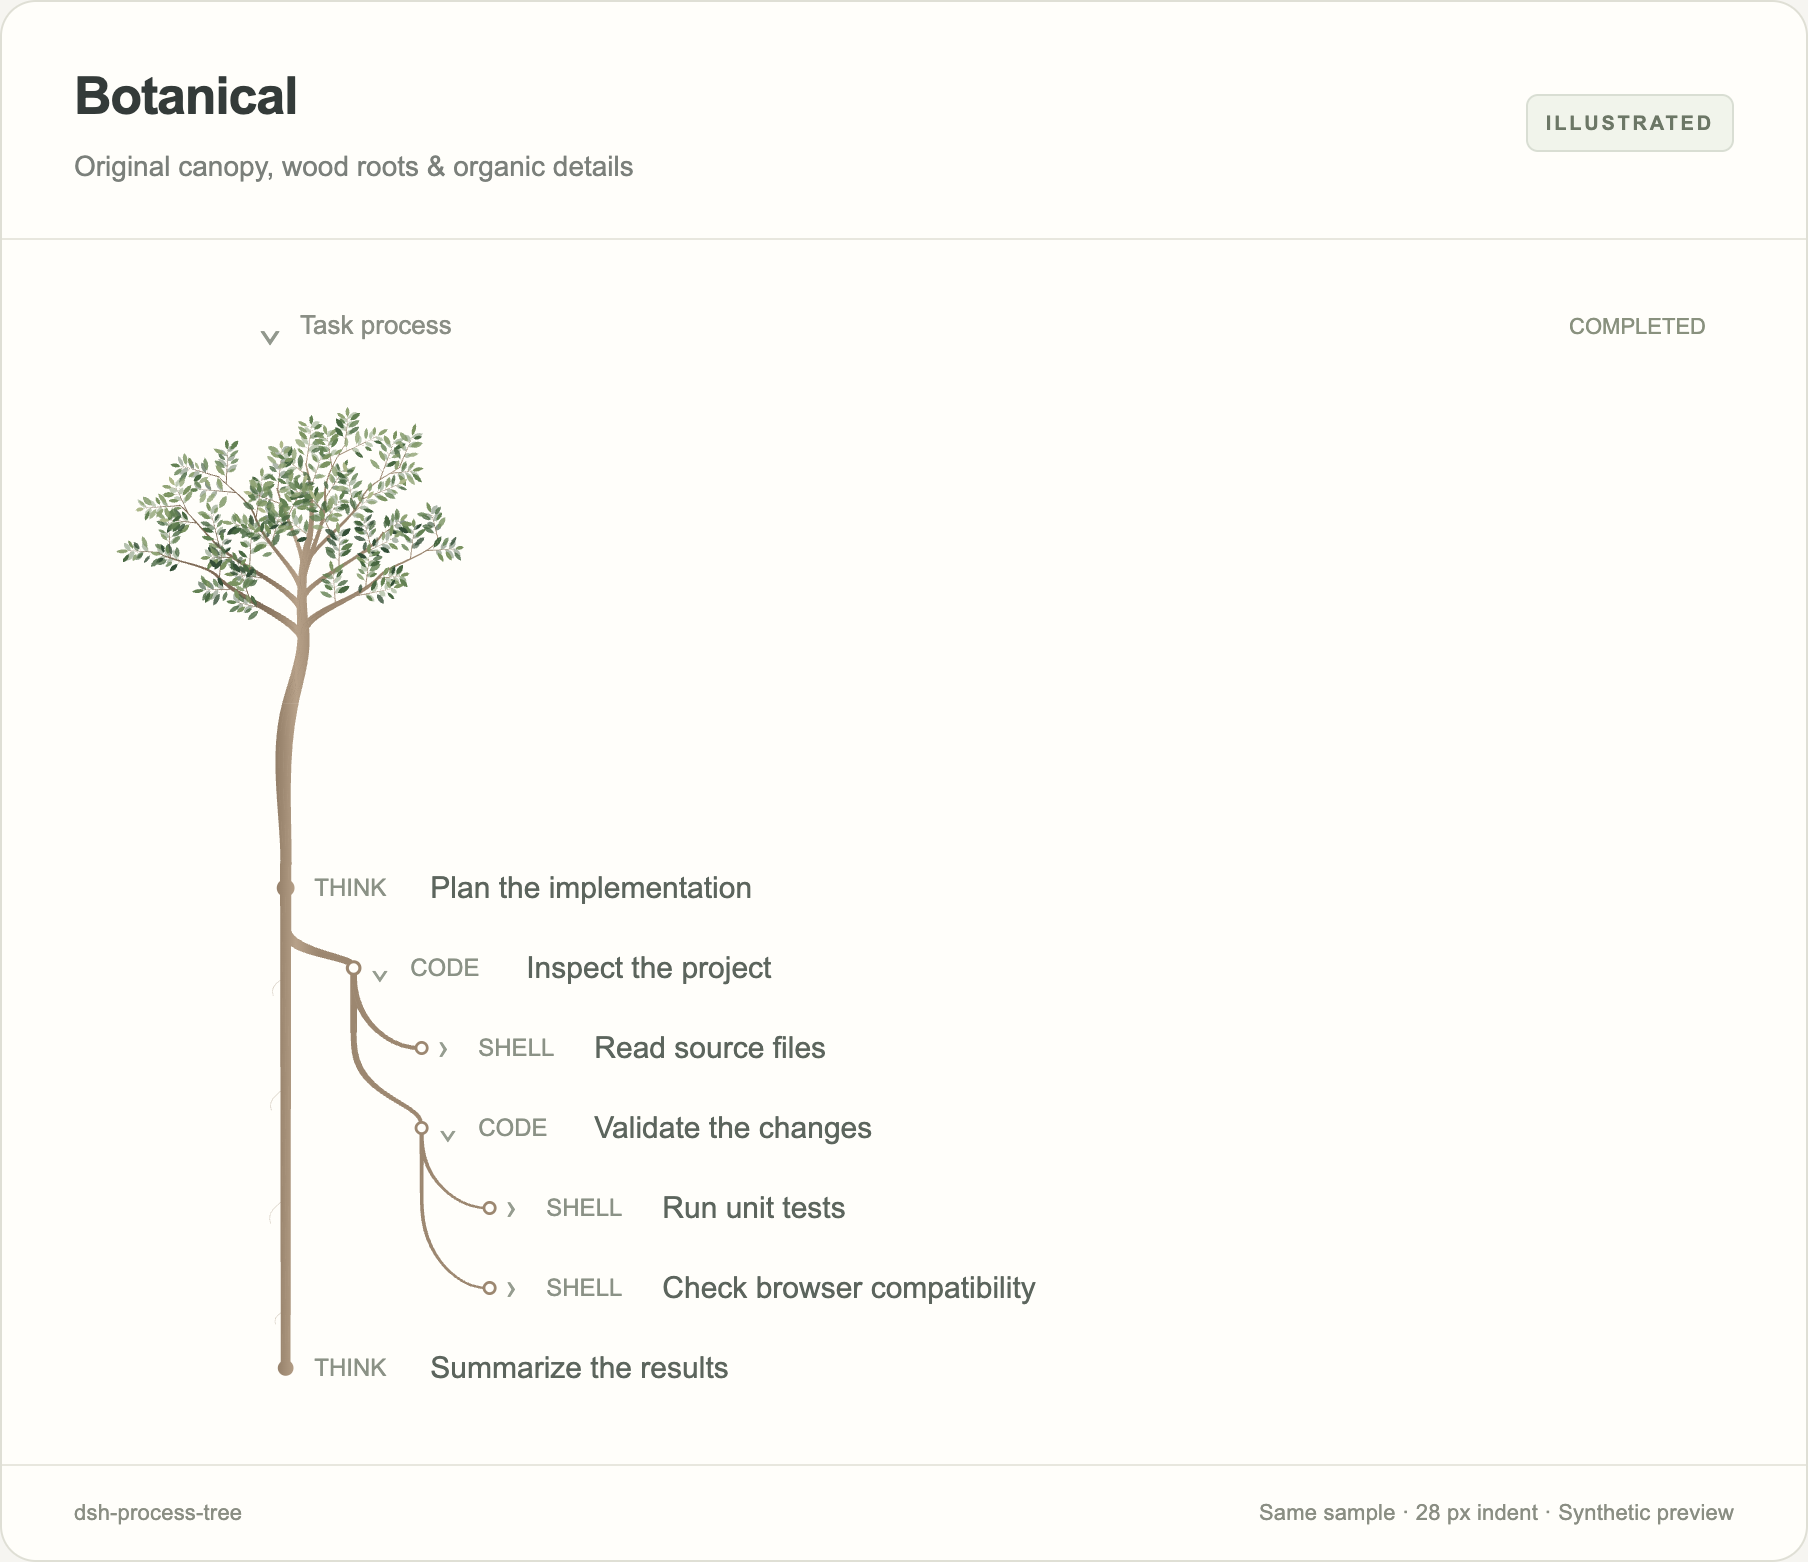
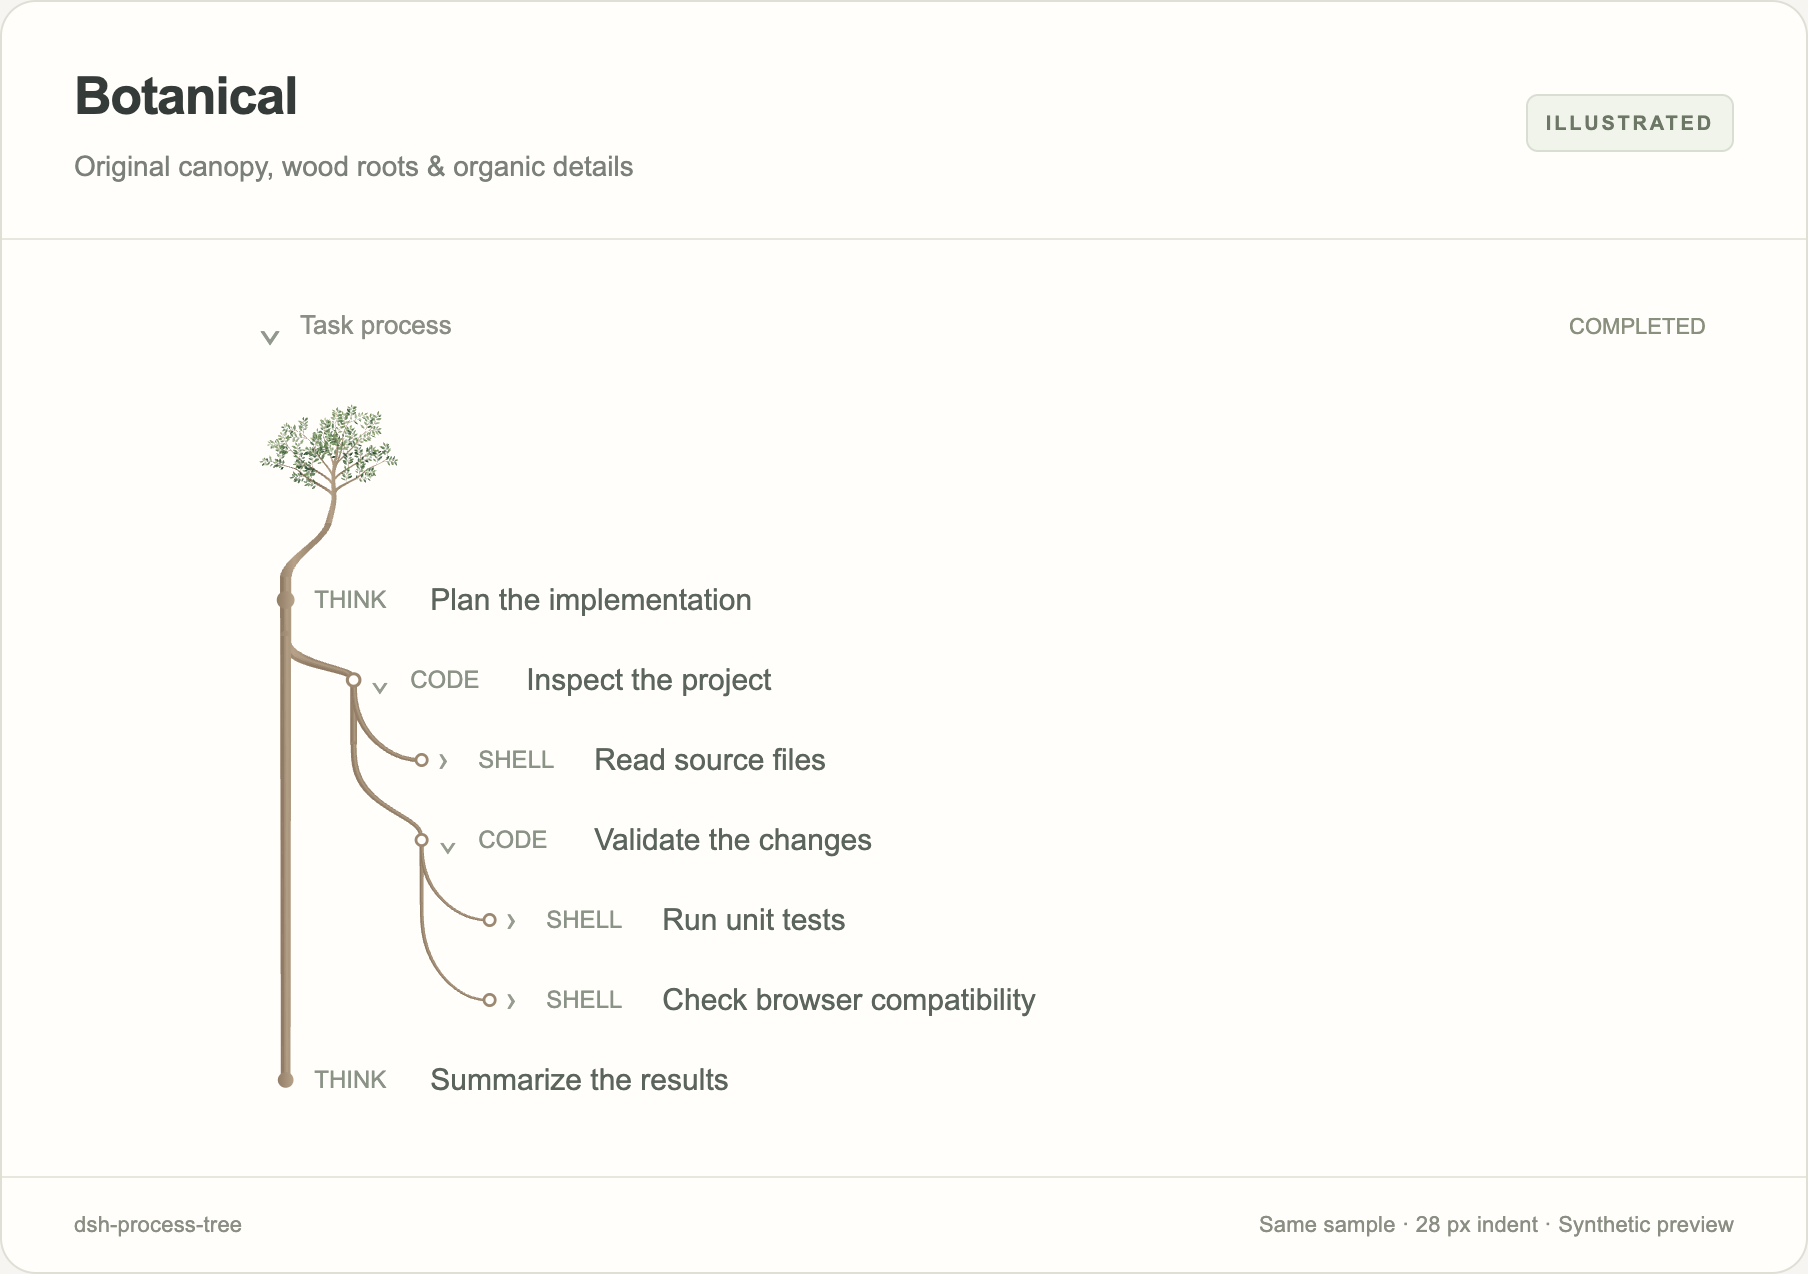
feat: botanical crown as a small emblem with shaded wood roots
- The crown is a ~70px emblem on a short fixed neck instead of ~215px;
  saved full-size crowns migrate, emblem sizes (0.15-0.35) stay editable.
- The crown never extends past the content's left edge; the neck leans
  back to the trunk instead, also inside the settings preview.
- Roots get shadow and highlight bands matching the crown's lit trunk,
  hidden on failed and stopped steps; the neck shares the roots' wood
  gradient so the joint has no seam.
- Remove the root-hair arcs beside the trunk.

diff --git a/client.js b/client.js
@@ -44,6 +44,15 @@ window.__ModuleLoader__.load({
   const TREE_STYLES = ['quiet', 'botanical', 'classic']
   // Pre-0.8 organic preset value; saved copies of it migrate to a straight trunk.
   const LEGACY_VINE_AMPLITUDE = 29 / 6
+  // The crown is a small emblem (about 70px tall); pre-0.8 sizes were 0.45–0.85.
+  const CANOPY_SCALE = 0.26
+  const CANOPY_MIN = 0.15
+  const CANOPY_MAX = 0.35
+  // Half the crown artwork's width, in artwork units, for keeping it on-page.
+  const CROWN_HALF_WIDTH = 124
+  // The artwork's canopy ends at y=232; a short fixed neck joins it to the first row.
+  const CROWN_ART_HEIGHT = 232
+  const CROWN_NECK = 10
   // Pre-0.8 classic fork and texture; botanical keeps them for its wood roots.
   const LEGACY_ROOT_FUSION = 0.7
   // Visual values a style switch applies; sliders stay editable afterwards.
@@ -82,7 +91,7 @@ window.__ModuleLoader__.load({
     treeStyle: 'classic',
     botanicalStyle: false,
     canopyEnabled: true,
-    canopyScale: 0.65,
+    canopyScale: CANOPY_SCALE,
     canopyDensity: 1,
     rootDetail: 0.8,
     topBend: 0.5,
@@ -102,6 +111,13 @@ window.__ModuleLoader__.load({
     leading: 0,
     ...STYLE_PRESETS.classic,
   })
+
+  // The wood gradient keeps its original span so a small crown does not band the roots.
+  const woodScale = () => Math.max(SETTINGS.canopyScale, 0.5)
+
+  function crownHeight() {
+    return Math.ceil(CROWN_ART_HEIGHT * SETTINGS.canopyScale + CROWN_NECK)
+  }
 
   function migrateStyle(source) {
     // Missing or invalid styles adopt the default preset; explicit choices survive.
@@ -130,7 +146,9 @@ window.__ModuleLoader__.load({
       // Derived; kept in storage so older plugin builds still read a value.
       botanicalStyle: source.treeStyle === 'botanical',
       canopyEnabled: typeof source.canopyEnabled === 'boolean' ? source.canopyEnabled : defaults.canopyEnabled,
-      canopyScale: clampNumber(source.canopyScale ?? defaults.canopyScale, 0.45, 0.85, defaults.canopyScale),
+      // Old full-size crowns become the emblem; emblem sizes stay editable.
+      canopyScale: Number(source.canopyScale) > CANOPY_MAX ? defaults.canopyScale
+        : clampNumber(source.canopyScale ?? defaults.canopyScale, CANOPY_MIN, CANOPY_MAX, defaults.canopyScale),
       canopyDensity: clampNumber(source.canopyDensity ?? defaults.canopyDensity, 0.2, 1, defaults.canopyDensity),
       rootDetail: clampNumber(source.rootDetail ?? defaults.rootDetail, 0, 1, defaults.rootDetail),
       topTransition: clampNumber(source.topTransition ?? Math.round(10 + curveShape * 8), 0, 96, defaults.topTransition),
@@ -457,7 +475,11 @@ window.__ModuleLoader__.load({
   fill: var(--dsw-alias-state-warn-primary, #d9a441);
   stroke: var(--dsw-alias-state-warn-primary, #d9a441);
 }
-.dpt-root-hairs {fill:none;stroke:var(--dpt-wood);stroke-width:.35;stroke-linecap:round;pointer-events:none;}
+/* Cylindrical wood shading along each root, matching the crown's lit trunk. */
+.dpt-root-shade {pointer-events:none;}
+.dpt-root-shade-dark {fill:var(--dpt-wood-dark);opacity:.55;}
+.dpt-root-shade-light {fill:var(--dpt-wood-light);opacity:.75;}
+.dpt-edge.dpt-error ~ .dpt-root-shade,.dpt-edge.dpt-stopped ~ .dpt-root-shade {display:none;}
 .dpt-root-flow {fill:none;stroke:var(--dpt-live);stroke-width:.8;stroke-linecap:round;opacity:.55;pointer-events:none;display:none;}
 .dpt-halo {opacity:0;pointer-events:none;}
 .dpt-halo.dpt-halo-live {opacity:.42;}
@@ -899,6 +921,23 @@ window.__ModuleLoader__.load({
         smoothOutline(reversed, false) + ' A' + startRadius + ',' + startRadius + ' 0 0 0 ' + coord(start.x) + ',' + coord(start.y) + ' Z',
       length,
     }
+  }
+
+  function stripeD(geometry, widthAt, offset, scale) {
+    // A narrow band inside a root's outline, shifted across it by `offset`
+    // (in radii; positive is the shadow side) to suggest a lit cylinder.
+    const length = geometry.length
+    if (!Number.isFinite(length) || length < 4) return ''
+    const count = Math.max(8, Math.min(80, Math.ceil(length / 6)))
+    const left = [], right = []
+    for (let i = 0; i <= count; i++) {
+      const p = geometry.sample(length * i / count)
+      const r = widthAt(i / count, p.y) / 2
+      const cx = p.x + p.nx * r * offset, cy = p.y + p.ny * r * offset
+      left.push({ x: cx + p.nx * r * scale, y: cy + p.ny * r * scale })
+      right.push({ x: cx - p.nx * r * scale, y: cy - p.ny * r * scale })
+    }
+    return smoothOutline(left, true) + smoothOutline(right.reverse(), false) + ' Z'
   }
 
   function textureD(geometry, length, widthAt, key) {
@@ -1443,20 +1482,6 @@ window.__ModuleLoader__.load({
     }
     return d
   }
-  function rootHairD(geometry, key) {
-    let d = ''
-    const count = Math.min(8, Math.floor(geometry.length / 48))
-    for (let i = 0; i < count; i++) {
-      const p = geometry.sample(geometry.length * (i + 0.5) / count)
-      const w = trunkWidth(p.y)
-      const x = p.x + p.nx * w * 0.44, y = p.y + p.ny * w * 0.44
-      const length = 5 + hash(key + i) % 7
-      d += ' M' + coord(x) + ',' + coord(y) + ' C' + coord(x - 1.4) + ',' + coord(y + length * 0.2) +
-        ' ' + coord(x - length * 0.68) + ',' + coord(y + length * 0.42) + ' ' + coord(x - length * 0.48) + ',' + coord(y + length)
-    }
-    return d
-  }
-
   class TreeView {
     constructor(content) {
       this.content = content
@@ -1551,7 +1576,7 @@ window.__ModuleLoader__.load({
         this.content.prepend(header)
         this.crownHeader = header
       }
-      this.crownHeight = Math.ceil(330 * SETTINGS.canopyScale)
+      this.crownHeight = crownHeight()
       this.crownHeader.style.height = this.crownHeight + 'px'
       if (this.suspended) return
       if (!this.crownSvg) {
@@ -1580,7 +1605,7 @@ window.__ModuleLoader__.load({
         registerFloatingCrown(this)
       }
       this.crownHeader.style.display=''
-      this.crownHeight=Math.ceil(330*SETTINGS.canopyScale)
+      this.crownHeight=crownHeight()
       this.crownHeader.style.height=this.crownHeight+'px'
       this.paintCrown(this.crownHeight)
       syncCrownLibraries()
@@ -1589,7 +1614,10 @@ window.__ModuleLoader__.load({
     paintCrown(space) {
       if(!this.crownHeader||!SETTINGS.botanicalStyle||!SETTINGS.canopyEnabled)return
       this.crownSpace=space
-      const s=SETTINGS.canopyScale,vine=createVine(this.vineKey),start=vine(0),x=start.x,n=this.crownNeck
+      const s=SETTINGS.canopyScale,vine=createVine(this.vineKey),start=vine(0),n=this.crownNeck
+      // Centre the crown over the trunk unless that would push it off the content's left edge;
+      // the neck below then leans back to the trunk.
+      const x=Math.max(start.x,CROWN_HALF_WIDTH*s+2)
       attr(this.crownUse,'transform','translate('+coord(x-128*s)+',0) scale('+s+')')
       // Exact cross-section and tangents of the original crown at y=232.
       // A longer Hermite bridge then joins the unchanged native root outline.
@@ -1603,7 +1631,9 @@ window.__ModuleLoader__.load({
       const d='M'+pt(left[0])+' C'+left.slice(1).map(pt).join(' ')+' L'+pt(right[3])+' C'+[right[2],right[1],right[0]].map(pt).join(' ')+' Z'
       for(const el of [this.crownBridge,n.silhouette,n.shade])attr(el,'d',d)
       attr(n.canopyRect,'height',y+.12)
-      attr(n.wood,'x1',x-19*s);attr(n.wood,'x2',x+25*s);attr(n.wood,'y1',0);attr(n.wood,'y2',0)
+      // Shade the neck like the roots it joins, so the two meet in one tone.
+      const woodX=start.x,woodS=woodScale()
+      attr(n.wood,'x1',woodX-19*woodS);attr(n.wood,'x2',woodX+25*woodS);attr(n.wood,'y1',0);attr(n.wood,'y2',0)
       for(const [k,v]of Object.entries({x1:0,x2:0,y1:y,y2:space}))attr(n.fade,k,v)
       for(const [k,v]of Object.entries({x:Math.min(left[0].x,finish.x-half)-10,y:y-1,width:Math.abs(right[0].x-left[0].x)+Math.abs(finish.x-x)+20,height:span+3}))attr(n.fadeRect,k,v)
       const sample=(curve,t)=>{const a=1-t;return{x:a*a*a*curve[0].x+3*a*a*t*curve[1].x+3*a*t*t*curve[2].x+t*t*t*curve[3].x,y:a*a*a*curve[0].y+3*a*a*t*curve[1].y+3*a*t*t*curve[2].y+t*t*t*curve[3].y}}
@@ -1984,7 +2014,7 @@ window.__ModuleLoader__.load({
     syncWoodPaint() {
       if(!this.rootWoodGradient)return
       // Same gradient, coordinates and theme tokens as the crown wood.
-      const x=createVine(this.vineKey)(0).x,s=SETTINGS.canopyScale
+      const x=createVine(this.vineKey)(0).x,s=woodScale()
       for(const [k,v]of Object.entries({x1:x-19*s,x2:x+25*s,y1:0,y2:0}))attr(this.rootWoodGradient,k,v)
     }
 
@@ -2438,6 +2468,26 @@ window.__ModuleLoader__.load({
       }
     }
 
+    syncRootShade(record, plan) {
+      const wanted = SETTINGS.botanicalStyle && SETTINGS.rootDetail > 0
+      if (!wanted) {
+        if (record.shade) { record.shade.remove(); record.shade = null }
+        return
+      }
+      if (!plan.body) return
+      if (!record.shade) {
+        const group = document.createElementNS(NS, 'g')
+        group.classList.add('dpt-root-shade')
+        group.innerHTML = '<path class="dpt-root-shade-dark"/><path class="dpt-root-shade-light"/>'
+        record.bodyGroup.append(group)
+        record.shade = group
+      }
+      record.shade.style.opacity = String(SETTINGS.rootDetail)
+      const [dark, light] = record.shade.children
+      attr(dark, 'd', stripeD(plan.geometry, plan.widthAt, 0.62, 0.3))
+      attr(light, 'd', stripeD(plan.geometry, plan.widthAt, -0.28, 0.24))
+    }
+
     createEdge(edge, node, fragment) {
       const bodyGroup = document.createElementNS(NS, 'g')
       const path = document.createElementNS(NS, 'path')
@@ -2581,15 +2631,7 @@ window.__ModuleLoader__.load({
         record.geometry = geometry
         record.centerD = edge.d
         record.length = geometry.length
-        if (SETTINGS.botanicalStyle && SETTINGS.rootDetail > 0 && edge.type === 'trunk') {
-          if (!record.hairs) {
-            record.hairs = document.createElementNS(NS, 'path')
-            record.hairs.classList.add('dpt-root-hairs')
-            record.bodyGroup.append(record.hairs)
-          }
-          if (record.hairD !== edge.d) { attr(record.hairs, 'd', rootHairD(geometry, this.vineKey + edge.key)); record.hairD = edge.d }
-          record.hairs.style.opacity = String(SETTINGS.rootDetail * 0.45)
-        } else if (record.hairs) { record.hairs.remove(); record.hairs = null; record.hairD = null }
+        this.syncRootShade(record, plan)
         if (plan.textured) {
           if (!record.texture) {
             const clip = document.createElementNS(NS, 'clipPath')
@@ -2982,9 +3024,9 @@ window.__ModuleLoader__.load({
           ...(settings.treeStyle !== 'botanical' ? [] : [
           h('h3', { className: 'dpt-subhead' }, '植物手稿'),
           h(SelectRow, { label: '顶部树冠', desc: '树冠随本轮过程一起折叠；不改变根系的曲线和缩进', value: settings.canopyEnabled ? 'on' : 'off', options: [{ value: 'on', label: '显示' }, { value: 'off', label: '隐藏' }], onChange: value => commit({ canopyEnabled: value === 'on' }) }),
-          h(SliderRow, { label: '树冠大小', desc: '缩放顶部树冠，根系坐标保持独立', min: .45, max: .85, step: .01, value: settings.canopyScale, format: value => Math.round(value * 100) + '%', onChange: canopyScale => commit({ canopyScale }) }),
+          h(SliderRow, { label: '树冠大小', desc: '顶部小树冠徽记的大小；树冠始终留在内容区内', min: CANOPY_MIN, max: CANOPY_MAX, step: .01, value: settings.canopyScale, format: value => Math.round(value * 100) + '%', onChange: canopyScale => commit({ canopyScale }) }),
           h(SliderRow, { label: '树冠疏密', desc: '稳定分布的枝叶，重绘时不会随机跳动', min: .2, max: 1, step: .05, value: settings.canopyDensity, format: value => Math.round(value * 100) + '%', onChange: canopyDensity => commit({ canopyDensity }) }),
-          h(SliderRow, { label: '根系装饰细节', desc: '细纤维与少量毛细根；不改变原有曲线或粗细衰减', min: 0, max: 1, step: .05, value: settings.rootDetail, format: value => Math.round(value * 100) + '%', onChange: rootDetail => commit({ rootDetail }) }),
+          h(SliderRow, { label: '根系装饰细节', desc: '木纹细线与明暗；不改变原有曲线或粗细衰减', min: 0, max: 1, step: .05, value: settings.rootDetail, format: value => Math.round(value * 100) + '%', onChange: rootDetail => commit({ rootDetail }) }),
           ]),
           h('h3', { className: 'dpt-subhead' }, '枝条形态'),
           h(SliderRow, {

diff --git a/CHANGELOG.md b/CHANGELOG.md
@@ -9,6 +9,8 @@
 - Classic lines use the host's text colour at 38% strength, clearly lighter than labels; the taper is stronger along the trunk, stems and forks.
 - Classic drops the ink texture and lightens forks (root fusion 0.7 → 0.3); the untouched old classic preset migrates, custom values and botanical wood are kept.
 - Classic leaves are sage, the tree's one accent colour.
+- Botanical crown is a small emblem (about 70 px instead of about 215 px) on a short neck, and never extends past the content's left edge; saved full-size crowns migrate to the emblem.
+- Botanical roots get the crown's lit-wood shading; the stray root-hair arcs beside the trunk are removed.
 - Classic leaves now mean something: a leaf sprouts when a tool step finishes, and running or failed steps stay bare. The random leaf-density slider is gone; a saved density of 0 migrates to hidden leaves. Default leaf size is 9 px.
 - Quiet lines are presented as the understated mode: listed last in the settings and READMEs.
 

diff --git a/README.en.md b/README.en.md
@@ -18,9 +18,9 @@ Flowing branches with a clear taper, drawn in the interface's own text colour. A
 
 ### Botanical
 
-Original canopy artwork and thicker wood roots (5.6 px line-width preset) connect the calls into a tree.
+A small original canopy emblem tops shaded wood roots (5.6 px line-width preset) that connect the calls into a tree. The crown is about 70 px tall and stays inside the content area.
 
-![Botanical style with a full canopy, wood trunk and nested calls](docs/images/botanical.png)
+![Botanical style with a small canopy, wood trunk and nested calls](docs/images/botanical.png)
 
 ### Quiet lines (understated)
 

diff --git a/README.md b/README.md
@@ -18,9 +18,9 @@
 
 ### 植物手稿
 
-原创树冠与更粗的木质根系（5.6 px 线宽预设），将调用层级连接成一棵树。
+顶部一枚原创小树冠，下接带明暗的木质根系（5.6 px 线宽预设），将调用层级连接成一棵树。树冠约 70 px 高，始终留在内容区内。
 
-![植物手稿模式：完整树冠、木质主干及嵌套调用](docs/images/botanical.png)
+![植物手稿模式：小树冠、木质主干及嵌套调用](docs/images/botanical.png)
 
 ### 安静线条（低调模式）
 
